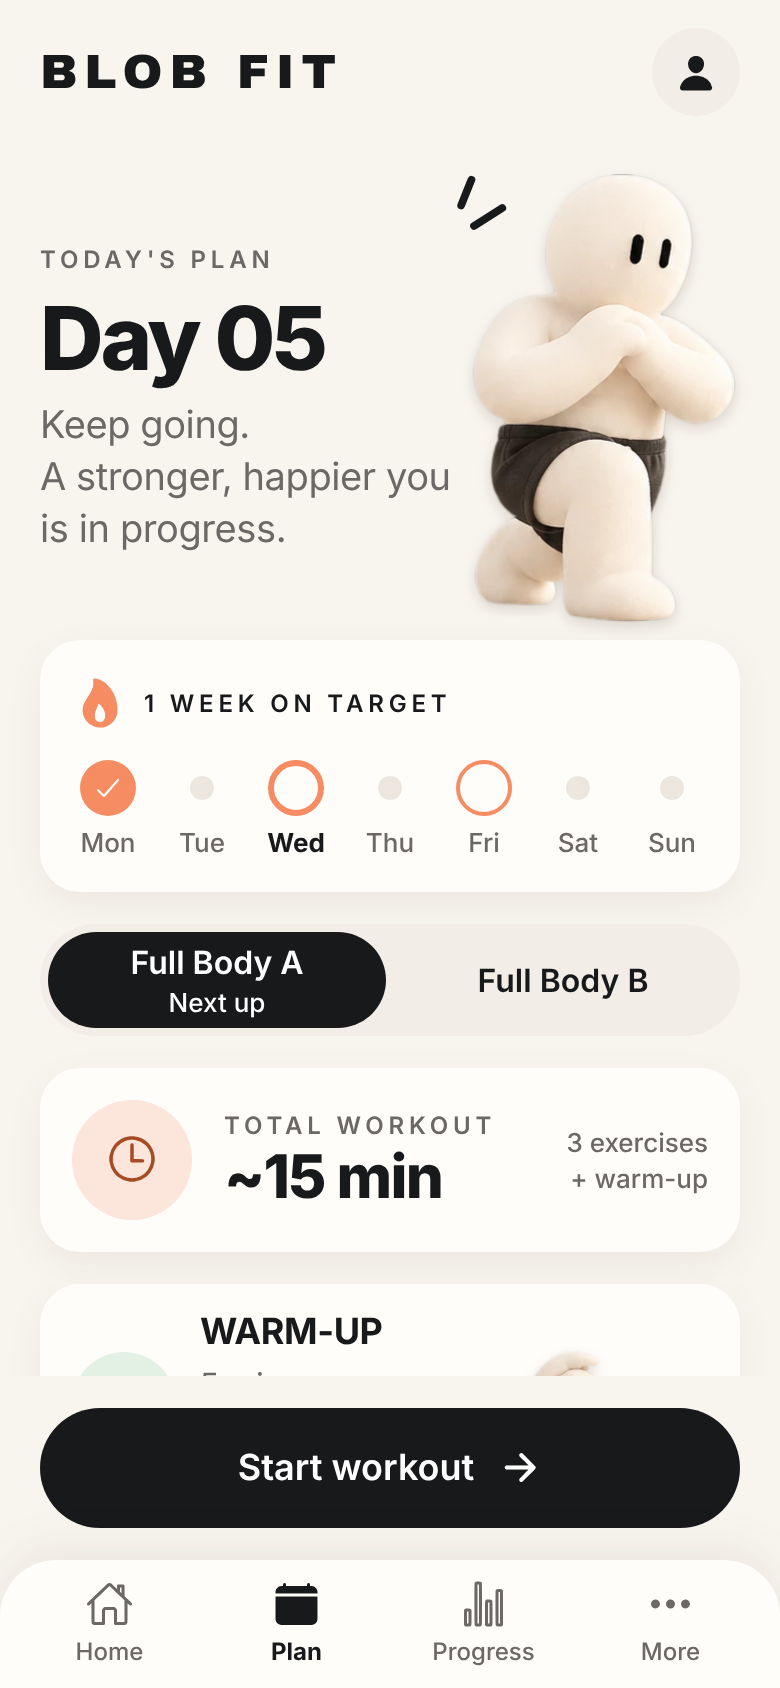
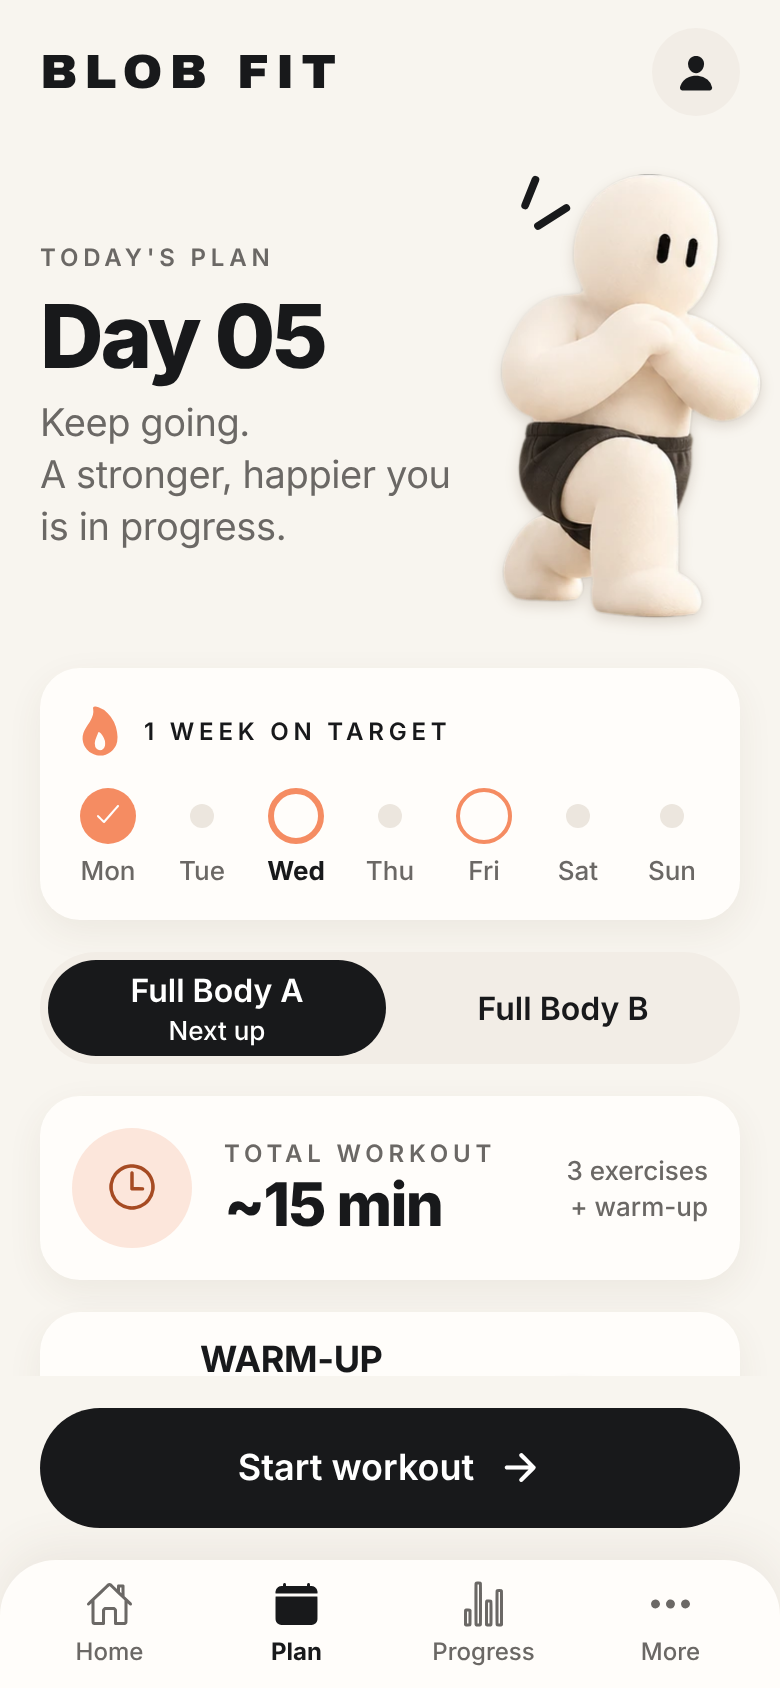
test(e2e): run the smoke test at 320x568 too; concept-vs-build sets
- e2e/smoke.mjs takes E2E_VIEWPORT and E2E_OUT; CI adds a second run at
  320x568 (smallest supported phone) so small-screen layout regressions
  fail the build.
- docs/screenshots/concept-vs-build-{393,320}.png: approved concepts next
  to the exported web build at 393x852 and 320x568, labelled as web, not
  an iOS simulator. Refreshed the other screenshots.
- Release notes: design QA round (issue #4), what changed and what waits
  on a device run or founder accounts.

Claude-Session: https://claude.ai/code/session_01GxvcnDqjGiTzFAnzHf84DC

diff --git a/docs/MVP_RELEASE_NOTES.md b/docs/MVP_RELEASE_NOTES.md
@@ -60,11 +60,32 @@ Other checks: `expo-doctor` passed 18/20. The 2 failures need the Expo API, whic
 7. **Persistence:** a versioned AsyncStorage document with a migration hook. This is a deliberate deviation from the SQLite suggestion in `ARCHITECTURE.md`: it behaves identically on iOS, Android and web (web is the only runtime testable here), and the domain layer is storage-agnostic, so a later swap is contained.
 8. **Prescriptions** (sets, reps, holds, A/B split) are starting points pending qualified review.
 
+## Design QA round (issue #4, CG-IOS-001)
+
+Side-by-side sets: [393×852](screenshots/concept-vs-build-393.png) and [320×568, the smallest supported phone](screenshots/concept-vs-build-320.png). Both are the exported **web** build in Chromium, not an iOS simulator.
+
+- **Small phones:**
+  - A shared `Hero` scales the Blob art with the screen width and never lets it cover text.
+  - Headlines size themselves so their longest word fits, so 320pt phones no longer break "Wednesday" mid-word.
+  - There are no negative-margin overlaps (Home CTA, Plan week card, Progress cards).
+  - On 375pt phones and with large Dynamic Type, the quick links become 2×2 and the stat tiles reflow. On 320pt the ring and streak cards stack.
+- **iOS-native details:**
+  - SF Symbols via `expo-symbols`, with an explicit mapping in `src/components/Icon.tsx`; Android and web keep Ionicons.
+  - System alerts for confirmations, with the destructive style for discard and erase.
+  - `ActionSheetIOS` for exercise swaps.
+  - Light haptics on set completion and a success haptic on finishing.
+- **Exercise detail:** a simplified front/back muscle map (main muscles red, supporting yellow), labelled *pending coach review*.
+- **Regression guard:** the e2e smoke test also runs at 320×568 in CI (`E2E_VIEWPORT`).
+- **Not done yet, and why:**
+  - Native tab bar (`NativeTabs`): waiting for the first device or simulator run, so the system tab bar is not switched in blind.
+  - Step-by-step pose images and exercise-specific art: requested in issue #1 (CC-007).
+  - TestFlight / EAS: needs the founder's Apple Developer and Expo accounts.
+
 ## Known gaps and placeholders
 
 - **Art is interim.** The mascot cut-outs come from 941×1672 concept images and are soft on 3× screens. Hip hinge, glute bridge, plank, box/goblet squat, RDL, band row and prone Y raise have no approved pose, so they use a neutral icon tile. Production exports are requested in issue #1 (`CC-001`).
 - **Canonical asset PNGs** (11 files in `docs/ASSET_MANIFEST.md`) are still not on GitHub.
-- **Native runtime** has not been run on a simulator or device.
+- **Native runtime** has not been run on a simulator or device. iOS-only code paths (SF Symbols, system alerts, action sheet, haptics) are type-checked and bundled but unexercised. The quickest check is Expo Go: `npx expo start` on a computer, then scan the QR code with an iPhone.
 - **No notifications, no data export, no dark mode.** Dark mode is out of scope for the cream visual direction; `userInterfaceStyle` is locked to light.
 - **Copy review:** exercise text, the disclaimer and prescriptions need a qualified coach and legal review before any public release.
 - The working name "BLOB FIT" is pending trademark/app-store clearance. The app icon is a simple placeholder drawn from the canonical face.
